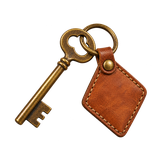
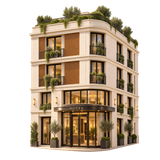
Use realistic category objects on app map and show photos only in place sheet

diff --git a/paris-map-i18n.js b/paris-map-i18n.js
@@ -1,4 +1,4 @@
 /* App map locale comes from the app preference; standalone map defaults to English. */
-(()=>{const query=new URLSearchParams(location.search);const lang=query.get('app')==='1'?query.get('lang'):'en';const index={de:0,fr:1,es:2}[lang];const copy={"Area":["Viertel","Quartier","Zona"],"Places":["Orte","Lieux","Lugares"],"All places":["Alle Orte","Tous les lieux","Todos los lugares"],"All districts":["Alle Viertel","Tous les quartiers","Todos los distritos"],"Cafés":["Cafés","Cafés","Cafés"],"Restaurants":["Restaurants","Restaurants","Restaurantes"],"Dog shops":["Hundeboutiquen","Boutiques pour chiens","Tiendas para perros"],"Hotels":["Hotels","Hôtels","Hoteles"],"Café":["Café","Café","Cafetería"],"Restaurant":["Restaurant","Restaurant","Restaurante"],"Dog shop":["Hundeboutique","Boutique pour chiens","Tienda para perros"],"Hotel":["Hotel","Hôtel","Hotel"],"Previous place":["Vorheriger Ort","Lieu précédent","Lugar anterior"],"Next place":["Nächster Ort","Lieu suivant","Lugar siguiente"],"Reset map filters":["Kartenfilter zurücksetzen","Réinitialiser les filtres de la carte","Restablecer filtros del mapa"],"Reset filters":["Filter zurücksetzen","Réinitialiser","Restablecer filtros"],"Close place card":["Ortskarte schließen","Fermer la fiche du lieu","Cerrar ficha del lugar"],"Clear nearby filter":["Umgebungsfilter löschen","Effacer le filtre de proximité","Quitar filtro de cercanía"],"Show my current location":["Meinen Standort anzeigen","Afficher ma position","Mostrar mi ubicación"],"Nearby ×":["In der Nähe ×","À proximité ×","Cerca ×"],"Near me":["In meiner Nähe","À proximité","Cerca de mí"],"No matches":["Keine Treffer","Aucun résultat","Sin resultados"],"View place":["Ort ansehen","Voir le lieu","Ver lugar"],"No places match these filters. Try another area or reset your filters.":["Keine Orte passen zu diesen Filtern. Wähle ein anderes Viertel oder setze die Filter zurück.","Aucun lieu ne correspond. Essayez un autre quartier ou réinitialisez les filtres.","No hay lugares con estos filtros. Prueba otra zona o restablece los filtros."],"{count} places · Tap a pin":["{count} Orte · Tippe auf einen Pin","{count} lieux · Touchez un repère","{count} lugares · Pulsa un pin"],"{count} places within 1.2 km · Tap a pin":["{count} Orte im Umkreis von 1,2 km · Tippe auf einen Pin","{count} lieux à moins de 1,2 km · Touchez un repère","{count} lugares a menos de 1,2 km · Pulsa un pin"],"{index} of {total} places":["{index} von {total} Orten","{index} sur {total} lieux","{index} de {total} lugares"],"Directions":["Wegbeschreibung","Itinéraire","Cómo llegar"],"Location unavailable. You can still choose an area above.":["Standort nicht verfügbar. Du kannst oben ein Viertel wählen.","Position indisponible. Vous pouvez choisir un quartier ci-dessus.","Ubicación no disponible. Puedes elegir una zona arriba."],"Map link copied.":["Kartenlink kopiert.","Lien de la carte copié.","Enlace del mapa copiado."],"Copy this page address to share the map.":["Kopiere die Adresse dieser Seite, um die Karte zu teilen.","Copiez l’adresse de cette page pour partager la carte.","Copia la dirección de esta página para compartir el mapa."],"Search places or neighbourhoods":["Ort oder Viertel suchen","Chercher un lieu ou un quartier","Buscar un sitio o barrio"],"{count} places · Tap a photo":["{count} Orte · Tippe auf ein Foto","{count} lieux · Touchez une photo","{count} sitios · Toca una foto"],"Your location":["Dein Standort","Votre position","Tu ubicación"],"You are outside Paris. Explore the city’s places here.":["Du bist außerhalb von Paris. Entdecke hier die Orte der Stadt.","Vous êtes hors de Paris. Explorez ici les lieux de la ville.","Estás fuera de París. Aquí puedes explorar sus sitios."],"Sociable dogs welcome":["Gesellige Hunde willkommen","Chiens sociables bienvenus","Perros sociables bienvenidos"],"Dogs welcome inside":["Hunde drinnen willkommen","Chiens admis à l’intérieur","Perros bienvenidos dentro"],"Dog policy: confirm with venue":["Hunderegeln beim Ort erfragen","Accueil des chiens à confirmer","Confirma la política con el sitio"]};
+(()=>{const query=new URLSearchParams(location.search);const lang=query.get('app')==='1'?query.get('lang'):'en';const index={de:0,fr:1,es:2}[lang];const copy={"Area":["Viertel","Quartier","Zona"],"Places":["Orte","Lieux","Lugares"],"All places":["Alle Orte","Tous les lieux","Todos los lugares"],"All districts":["Alle Viertel","Tous les quartiers","Todos los distritos"],"Cafés":["Cafés","Cafés","Cafés"],"Restaurants":["Restaurants","Restaurants","Restaurantes"],"Dog shops":["Hundeboutiquen","Boutiques pour chiens","Tiendas para perros"],"Hotels":["Hotels","Hôtels","Hoteles"],"Café":["Café","Café","Cafetería"],"Restaurant":["Restaurant","Restaurant","Restaurante"],"Dog shop":["Hundeboutique","Boutique pour chiens","Tienda para perros"],"Hotel":["Hotel","Hôtel","Hotel"],"Previous place":["Vorheriger Ort","Lieu précédent","Lugar anterior"],"Next place":["Nächster Ort","Lieu suivant","Lugar siguiente"],"Reset map filters":["Kartenfilter zurücksetzen","Réinitialiser les filtres de la carte","Restablecer filtros del mapa"],"Reset filters":["Filter zurücksetzen","Réinitialiser","Restablecer filtros"],"Close place card":["Ortskarte schließen","Fermer la fiche du lieu","Cerrar ficha del lugar"],"Clear nearby filter":["Umgebungsfilter löschen","Effacer le filtre de proximité","Quitar filtro de cercanía"],"Show my current location":["Meinen Standort anzeigen","Afficher ma position","Mostrar mi ubicación"],"Nearby ×":["In der Nähe ×","À proximité ×","Cerca ×"],"Near me":["In meiner Nähe","À proximité","Cerca de mí"],"No matches":["Keine Treffer","Aucun résultat","Sin resultados"],"View place":["Ort ansehen","Voir le lieu","Ver lugar"],"No places match these filters. Try another area or reset your filters.":["Keine Orte passen zu diesen Filtern. Wähle ein anderes Viertel oder setze die Filter zurück.","Aucun lieu ne correspond. Essaie un autre quartier ou réinitialise les filtres.","No hay lugares con estos filtros. Prueba otra zona o restablece los filtros."],"{count} places · Tap a pin":["{count} Orte · Tippe auf einen Pin","{count} lieux · Touchez un repère","{count} lugares · Pulsa un pin"],"{count} places within 1.2 km · Tap a pin":["{count} Orte im Umkreis von 1,2 km · Tippe auf einen Pin","{count} lieux à moins de 1,2 km · Touchez un repère","{count} lugares a menos de 1,2 km · Pulsa un pin"],"{index} of {total} places":["{index} von {total} Orten","{index} sur {total} lieux","{index} de {total} lugares"],"Directions":["Wegbeschreibung","Itinéraire","Cómo llegar"],"Location unavailable. You can still choose an area above.":["Standort nicht verfügbar. Du kannst oben ein Viertel wählen.","Position indisponible. Tu peux choisir un quartier ci-dessus.","Ubicación no disponible. Puedes elegir una zona arriba."],"Map link copied.":["Kartenlink kopiert.","Lien de la carte copié.","Enlace del mapa copiado."],"Copy this page address to share the map.":["Kopiere die Adresse dieser Seite, um die Karte zu teilen.","Copiez l’adresse de cette page pour partager la carte.","Copia la dirección de esta página para compartir el mapa."],"Search places or neighbourhoods":["Ort oder Viertel suchen","Chercher un lieu ou un quartier","Buscar un sitio o barrio"],"{count} places · Tap a photo":["{count} Orte · Tippe auf ein Foto","{count} lieux · Touchez une photo","{count} sitios · Toca una foto"],"Your location":["Dein Standort","Ta position","Tu ubicación"],"You are outside Paris. Explore the city’s places here.":["Du bist außerhalb von Paris. Entdecke hier die Orte der Stadt.","Tu es hors de Paris. Découvre ses lieux ici.","Estás fuera de París. Aquí puedes explorar sus sitios."],"Sociable dogs welcome":["Gesellige Hunde willkommen","Chiens sociables bienvenus","Perros sociables bienvenidos"],"Dogs welcome inside":["Hunde drinnen willkommen","Chiens admis à l’intérieur","Perros bienvenidos dentro"],"Dog policy: confirm with venue":["Hunderegeln beim Ort erfragen","Accueil des chiens à confirmer","Confirma la política con el sitio"],"{count} places · Tap an icon":["{count} Orte · Tippe auf ein Symbol","{count} lieux · Touche une icône","{count} sitios · Toca un icono"],"Show place":["Ort anzeigen","Afficher le lieu","Mostrar sitio"]};
  window.TdfgMapLanguage=index===undefined?'en':lang;
  window.TdfgMapText=(key,values={})=>{let text=index===undefined?key:(copy[key]?.[index]||key);if(index===undefined&&values.count===1)text=text.replace('places','place');if(index!==undefined&&/^\d+(?:st|nd|rd|th) arr\.$/.test(text))text=text.replace(/(\d+)(?:st|nd|rd|th) arr\./,lang==='fr'?'$1e arr.':'$1. arr.');return text.replace(/\{(\w+)\}/g,(_,name)=>String(values[name]??''));};})();

diff --git a/paris-map-google-v2.html b/paris-map-google-v2.html
@@ -1,1 +1,1 @@
-<!doctype html><html lang="en"><head><meta charset="utf-8"><meta name="viewport" content="width=device-width,initial-scale=1,viewport-fit=cover"><meta name="description" content="Explore 29 curated dog-friendly places in Paris on Google Maps."><title>Paris Map · The Dog Friendly Guide</title><link rel="preconnect" href="https://fonts.googleapis.com"><link rel="preconnect" href="https://fonts.gstatic.com" crossorigin><link href="https://fonts.googleapis.com/css2?family=DM+Sans:wght@300;400;500&family=Italiana&display=swap" rel="stylesheet"><link rel="canonical" href="https://thedogfriendlyguide.com/paris-map-google-v2.html"><link rel="stylesheet" href="paris-map.css?v=9"><link rel="stylesheet" href="paris-map-google.css?v=11"><link rel="stylesheet" href="paris-map-app.css?v=4"></head><body><header class="map-header"><a class="map-brand" href="index.html">The Dog<br>Friendly Guide</a><div class="map-title"><span>Curated places</span><strong>Paris</strong></div><a class="map-close" href="paris-guide.html" aria-label="Back to the Paris guide">×</a></header><main class="map-shell"><div id="paris-map" role="application" aria-label="Google map of dog-friendly places in Paris"></div><div class="google-map-setup" id="google-map-setup" hidden><strong>Google Maps preview is ready</strong><span>Add the restricted Google Maps API key to activate the comparison map.</span></div><div class="map-top-panel"><div class="map-filter-stack"><div class="map-filter-row"><span class="filter-step"><b>1</b> Area</span><div class="map-filters district-filters" id="district-filters" role="group" aria-label="First choose an arrondissement"></div></div><div class="map-filter-row"><span class="filter-step"><b>2</b> Place</span><div class="map-filters category-filters" role="group" aria-label="Then filter places by category"><button class="active" data-category="all" aria-pressed="true">All <span>29</span></button><button data-category="cafe" aria-pressed="false"><i class="dot cafe"></i>Cafés</button><button data-category="restaurant" aria-pressed="false"><i class="dot restaurant"></i>Restaurants</button><button data-category="shop" aria-pressed="false"><i class="dot shop"></i>Dog shops</button><button data-category="hotel" aria-pressed="false"><i class="dot hotel"></i>Hotels</button></div></div></div><div class="map-actions"><button class="map-action-button map-action-invite" id="invite-map" type="button" aria-label="Invite a friend to explore the Paris map"><svg viewBox="0 0 24 24" aria-hidden="true"><path d="M15 19c0-2.2-2-4-4.5-4S6 16.8 6 19M10.5 12a3.5 3.5 0 1 0 0-7 3.5 3.5 0 0 0 0 7ZM18 8v6M15 11h6"/></svg><span>Invite</span></button><button class="map-action-button map-action-share" id="share-map" type="button" aria-label="Copy a link to the Paris map"><svg viewBox="0 0 24 24" aria-hidden="true"><path d="M9.5 14.5 14.5 9M7.5 16.5l-1 1a3.5 3.5 0 0 1-5-5l3-3a3.5 3.5 0 0 1 5 0M16.5 7.5l1-1a3.5 3.5 0 0 1 5 5l-3 3a3.5 3.5 0 0 1-5 0"/></svg><span>Copy link</span></button><a class="map-action-button map-action-save" id="save-map" href="https://www.google.com/maps/d/viewer?mid=1Bn3pK4I5YNfQFJ4qpnKmQMLsyXsLqco" target="_blank" rel="noopener" aria-label="Open this collection in Google Maps"><svg viewBox="0 0 24 24" aria-hidden="true"><path d="M6 4.5A1.5 1.5 0 0 1 7.5 3h9A1.5 1.5 0 0 1 18 4.5V21l-6-3.8L6 21V4.5Z"/></svg><span>Save in Google</span></a><button class="locate-button" type="button" aria-label="Show my current location"><span>◎</span> Near me</button></div></div><section class="map-results" aria-label="Paris recommendations"><div class="map-results-head"><p><span id="visible-count">29</span> curated places</p><span>Swipe to explore</span></div><div class="place-rail" id="place-rail" tabindex="0"></div></section><div class="map-status" id="map-status" role="status" aria-live="polite"></div></main><script>if(new URLSearchParams(location.search).get('embed')==='1')document.body.classList.add('embed-mode');window.TDFG_GOOGLE_MAPS_API_KEY = '';</script><script src="paris-map-i18n.js?v=2"></script><script src="paris-map-app.js?v=3"></script><script src="app-map-location.js?v=1"></script><script src="paris-map-google.js?v=15"></script></body></html>
+<!doctype html><html lang="en"><head><meta charset="utf-8"><meta name="viewport" content="width=device-width,initial-scale=1,viewport-fit=cover"><meta name="description" content="Explore 29 curated dog-friendly places in Paris on Google Maps."><title>Paris Map · The Dog Friendly Guide</title><link rel="preconnect" href="https://fonts.googleapis.com"><link rel="preconnect" href="https://fonts.gstatic.com" crossorigin><link href="https://fonts.googleapis.com/css2?family=DM+Sans:wght@300;400;500&family=Italiana&display=swap" rel="stylesheet"><link rel="canonical" href="https://thedogfriendlyguide.com/paris-map-google-v2.html"><link rel="stylesheet" href="paris-map.css?v=9"><link rel="stylesheet" href="paris-map-google.css?v=11"><link rel="stylesheet" href="paris-map-app.css?v=5"></head><body><header class="map-header"><a class="map-brand" href="index.html">The Dog<br>Friendly Guide</a><div class="map-title"><span>Curated places</span><strong>Paris</strong></div><a class="map-close" href="paris-guide.html" aria-label="Back to the Paris guide">×</a></header><main class="map-shell"><div id="paris-map" role="application" aria-label="Google map of dog-friendly places in Paris"></div><div class="google-map-setup" id="google-map-setup" hidden><strong>Google Maps preview is ready</strong><span>Add the restricted Google Maps API key to activate the comparison map.</span></div><div class="map-top-panel"><div class="map-filter-stack"><div class="map-filter-row"><span class="filter-step"><b>1</b> Area</span><div class="map-filters district-filters" id="district-filters" role="group" aria-label="First choose an arrondissement"></div></div><div class="map-filter-row"><span class="filter-step"><b>2</b> Place</span><div class="map-filters category-filters" role="group" aria-label="Then filter places by category"><button class="active" data-category="all" aria-pressed="true">All <span>29</span></button><button data-category="cafe" aria-pressed="false"><i class="dot cafe"></i>Cafés</button><button data-category="restaurant" aria-pressed="false"><i class="dot restaurant"></i>Restaurants</button><button data-category="shop" aria-pressed="false"><i class="dot shop"></i>Dog shops</button><button data-category="hotel" aria-pressed="false"><i class="dot hotel"></i>Hotels</button></div></div></div><div class="map-actions"><button class="map-action-button map-action-invite" id="invite-map" type="button" aria-label="Invite a friend to explore the Paris map"><svg viewBox="0 0 24 24" aria-hidden="true"><path d="M15 19c0-2.2-2-4-4.5-4S6 16.8 6 19M10.5 12a3.5 3.5 0 1 0 0-7 3.5 3.5 0 0 0 0 7ZM18 8v6M15 11h6"/></svg><span>Invite</span></button><button class="map-action-button map-action-share" id="share-map" type="button" aria-label="Copy a link to the Paris map"><svg viewBox="0 0 24 24" aria-hidden="true"><path d="M9.5 14.5 14.5 9M7.5 16.5l-1 1a3.5 3.5 0 0 1-5-5l3-3a3.5 3.5 0 0 1 5 0M16.5 7.5l1-1a3.5 3.5 0 0 1 5 5l-3 3a3.5 3.5 0 0 1-5 0"/></svg><span>Copy link</span></button><a class="map-action-button map-action-save" id="save-map" href="https://www.google.com/maps/d/viewer?mid=1Bn3pK4I5YNfQFJ4qpnKmQMLsyXsLqco" target="_blank" rel="noopener" aria-label="Open this collection in Google Maps"><svg viewBox="0 0 24 24" aria-hidden="true"><path d="M6 4.5A1.5 1.5 0 0 1 7.5 3h9A1.5 1.5 0 0 1 18 4.5V21l-6-3.8L6 21V4.5Z"/></svg><span>Save in Google</span></a><button class="locate-button" type="button" aria-label="Show my current location"><span>◎</span> Near me</button></div></div><section class="map-results" aria-label="Paris recommendations"><div class="map-results-head"><p><span id="visible-count">29</span> curated places</p><span>Swipe to explore</span></div><div class="place-rail" id="place-rail" tabindex="0"></div></section><div class="map-status" id="map-status" role="status" aria-live="polite"></div></main><script>if(new URLSearchParams(location.search).get('embed')==='1')document.body.classList.add('embed-mode');window.TDFG_GOOGLE_MAPS_API_KEY = '';</script><script src="paris-map-i18n.js?v=3"></script><script src="paris-map-app.js?v=4"></script><script src="app-map-location.js?v=1"></script><script src="paris-map-google.js?v=15"></script></body></html>

diff --git a/paris-map-google.js b/paris-map-google.js
@@ -79,15 +79,15 @@
     return true;
   };
   const formatDistance = km => km < 1 ? `${Math.round(km * 1000)} m away` : `${km.toFixed(1)} km away`;
-  const cardFor = place => { const category = normaliseCategory(place.category); const distance = userLocation ? `<span class="card-distance">${formatDistance(distanceBetween(userLocation, place.coordinates))}</span>` : ''; const image = (appMap ? place.preview : null) || place.images?.[0] || 'assets/places/photo-coming-soon-cafe.svg'; return `<article class="map-card" data-key="${escapeHTML(place.key)}" data-category="${category}" tabindex="0" aria-label="Show ${escapeHTML(place.name)} on the map"><img class="map-card-image" src="${escapeHTML(image)}" onerror="this.onerror=null;this.src='assets/places/photo-coming-soon-cafe.svg'" alt="${escapeHTML(place.name)} in Paris"><div class="map-card-copy"><p class="map-card-kicker"><i class="dot ${category}"></i>${t(categoryNames[category])} ${distance}</p><h2>${escapeHTML(place.name)}</h2><p class="map-card-meta">${escapeHTML(place.meta)}</p><p class="map-card-hours">${escapeHTML(place.openingHours || '')}</p><div class="map-card-actions"><a class="primary" href="${escapeHTML(place.mapsUrl)}" target="_blank" rel="noopener">${t('Directions')}</a><a href="${escapeHTML(place.instagram)}" target="_blank" rel="noopener">Instagram</a></div></div></article>`; };
+  const cardFor = place => { const category = normaliseCategory(place.category); const distance = userLocation ? `<span class="card-distance">${formatDistance(distanceBetween(userLocation, place.coordinates))}</span>` : ''; const image = (appMap ? place.preview : null) || place.images?.[0] || 'assets/places/photo-coming-soon-cafe.svg'; return `<article class="map-card" data-key="${escapeHTML(place.key)}" data-category="${category}" tabindex="0" aria-label="Show ${escapeHTML(place.name)} on the map"><img class="map-card-image" loading="lazy" decoding="async" src="${escapeHTML(image)}" onerror="this.onerror=null;this.src='assets/places/photo-coming-soon-cafe.svg'" alt="${escapeHTML(place.name)} in Paris"><div class="map-card-copy"><p class="map-card-kicker"><i class="dot ${category}"></i>${t(categoryNames[category])} ${distance}</p><h2>${escapeHTML(place.name)}</h2><p class="map-card-meta">${escapeHTML(place.meta)}</p><p class="map-card-hours">${escapeHTML(place.openingHours || '')}</p><div class="map-card-actions"><a class="primary" href="${escapeHTML(place.mapsUrl)}" target="_blank" rel="noopener">${t('Directions')}</a><a href="${escapeHTML(place.instagram)}" target="_blank" rel="noopener">Instagram</a></div></div></article>`; };
 
   let HTMLMarker;
   let LandmarkMarker;
   const defineHTMLMarker = () => {
     HTMLMarker = class extends google.maps.OverlayView {
-      constructor(place) { super(); this.place = place; this.position = new google.maps.LatLng(place.coordinates[1], place.coordinates[0]); this.element = document.createElement('button'); this.element.className = 'google-marker'; this.element.dataset.category = normaliseCategory(place.category); this.element.dataset.key = place.key; this.element.type = 'button'; this.element.setAttribute('aria-label', `Show ${place.name}`); this.element.innerHTML = `<span class="marker-shape"><span>${categoryIcons[normaliseCategory(place.category)]}</span></span><span class="google-marker-label">${escapeHTML(place.name)}</span>`; if(document.body.classList.contains('embed-mode')) { const photo=document.createElement('img');photo.className='app-pin-photo';photo.alt='';photo.src=place.preview||place.images[0];this.element.querySelector('.marker-shape').append(photo);const object=document.createElement('img');object.className='app-pin-object';object.alt='';object.src='assets/app-map/'+(normaliseCategory(place.category)==='cafe'?'coffee':normaliseCategory(place.category)==='shop'?'dog':'hotel')+'.png';this.element.querySelector('.marker-shape').append(object); } this.element.addEventListener('click', event => { event.stopPropagation(); selectPlace(place.key); }); }
+      constructor(place) { super(); this.place = place; this.position = new google.maps.LatLng(place.coordinates[1], place.coordinates[0]); this.element = document.createElement('button'); this.element.className = 'google-marker'; this.element.dataset.category = normaliseCategory(place.category); this.element.dataset.key = place.key; this.element.type = 'button'; this.element.setAttribute('aria-label', t('Show place')+': '+place.name); this.element.innerHTML = `<span class="marker-shape"><span>${categoryIcons[normaliseCategory(place.category)]}</span></span><span class="google-marker-label">${escapeHTML(place.name)}</span>`; if(document.body.classList.contains('embed-mode')) { this.element.classList.add('app-object-pin');const object=document.createElement('img');object.className='app-pin-object';object.alt='';object.src='assets/app-map/'+(normaliseCategory(place.category)==='cafe'?'coffee':normaliseCategory(place.category)==='shop'?'dog':normaliseCategory(place.category)==='restaurant'?'ramen':'hotel')+'.png';this.element.querySelector('.marker-shape').append(object); } this.element.addEventListener('click', event => { event.stopPropagation(); selectPlace(place.key); }); }
       onAdd() { this.getPanes().overlayMouseTarget.appendChild(this.element); google.maps.OverlayView.preventMapHitsAndGesturesFrom(this.element); }
-      draw() { const projection=this.getProjection(); if(!projection)return; const point = projection.fromLatLngToDivPixel(this.position); if (point) { if(appMap){const zoom=map.getZoom()||12;this.element.classList.toggle('app-photo-pin',this.place.key===selectedKey||zoom>=14||this.place.photoFeatured);this.element.classList.toggle('app-object-pin',this.place.key!==selectedKey&&zoom<14&&!this.place.photoFeatured&&['cafe','shop','hotel'].includes(normaliseCategory(this.place.category)));} this.element.style.left = `${point.x}px`; this.element.style.top = `${point.y}px`; } }
+      draw() { const projection=this.getProjection(); if(!projection)return; const point = projection.fromLatLngToDivPixel(this.position); if (point) { if(appMap){const zoom=map.getZoom()||12;this.element.classList.toggle('app-photo-pin',false);this.element.classList.toggle('app-object-pin',true);} this.element.style.left = `${point.x}px`; this.element.style.top = `${point.y}px`; } }
       onRemove() { this.element.remove(); }
     };
     LandmarkMarker = class extends google.maps.OverlayView {
@@ -151,6 +151,7 @@
       const [catalogue,previews,boundary] = await Promise.all([fetch('paris-places.json?v=11').then(response=>response.json()),fetch('app-map-photos.v1.json?v=1').then(response=>response.json()).catch(()=>({})),fetch('paris-boundary.geojson').then(response=>response.json()).catch(()=>null),loadGoogle(key)]);photoPreviews=previews;cityBoundary=boundary;
       defineHTMLMarker();
       places = catalogue.places.filter(place=>Array.isArray(place.coordinates)&&place.coordinates.every(Number.isFinite)).map((place,index)=>{const cover=place.key==='foret-foret'?(place.images.find(uri=>uri.includes('foret-foret-dog-space'))||place.images[0]):place.images[0];const preview=photoPreviews[place.key];return {...place,photoFeatured:index%4===0,preview:preview?.source===new URL(cover,location.href).href?preview.preview:cover,openingHours:catalogue.openingHours[place.key]};});
+      if(document.body.classList.contains('embed-mode')&&new URLSearchParams(location.search).has('only')){const keys=new Set((new URLSearchParams(location.search).get('only')||'').split(','));places=places.filter(place=>keys.has(place.key));}
       const allCount = document.querySelector('.category-filters [data-category="all"] span');
       if (allCount) allCount.textContent = String(places.length);
       buildDistrictFilters();

diff --git a/paris-map-app.css b/paris-map-app.css
@@ -73,3 +73,8 @@
 .embed-mode .google-marker.active .google-marker-label{display:block;max-width:130px;overflow:hidden;text-overflow:ellipsis;color:var(--ink);background:#FAF7F1;padding:3px 7px;border-radius:5px;font:400 12px var(--serif)}
 .embed-mode .google-marker.is-muted{opacity:.78}.embed-mode .google-marker:not(.active) .google-marker-label{display:none}
 @media(max-height:540px){.embed-mode .place-rail .map-card.active{min-height:120px}.embed-mode .map-card-image{width:64px;height:64px;min-height:64px}.embed-mode .place-rail .map-card.active{grid-template-columns:64px minmax(0,1fr)}.embed-mode .map-card h2{font-size:21px}.embed-mode .app-map-filters{inset:5px 10px auto}.embed-mode .app-map-search{min-height:40px}}
+
+/* Every curated place uses a photographic category object; photos stay in its sheet. */
+.embed-mode .landmark-marker{display:none}
+.embed-mode .google-marker.app-object-pin .marker-shape{width:36px;height:40px;transition:transform .18s ease}
+.embed-mode .google-marker.active.app-object-pin .marker-shape{transform:scale(1.18);filter:drop-shadow(0 2px 3px #26221d55)}

diff --git a/paris-map-app.js b/paris-map-app.js
@@ -69,7 +69,7 @@ window.TdfgAppMap = {
       locateButton.setAttribute('aria-label',t('Show my current location'));locateButton.lastChild.textContent='';locateButton.title=t('Show my current location');
       const total = current.places.length;
       const index = current.places.findIndex(p => p.key === current.selectedKey);
-      count.textContent = t(current.nearby?'{count} places within 1.2 km · Tap a pin':'{count} places · Tap a photo',{count:total});
+      count.textContent = t(current.nearby?'{count} places within 1.2 km · Tap a pin':'{count} places · Tap an icon',{count:total});
       count.hidden = index >= 0 || total === 0;
       results.hidden = index < 0 && total > 0;
       results.classList.toggle('has-selection', index >= 0 || total === 0);shell.classList.toggle('has-place-selection',index>=0);shell.style.setProperty('--place-sheet-height',results.hidden?'0px':results.getBoundingClientRect().height+'px');
